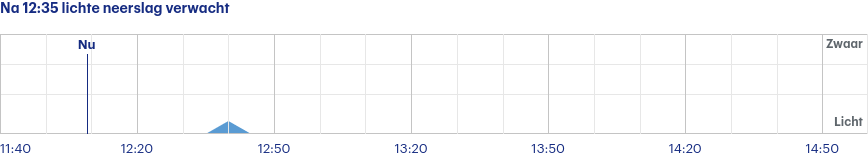
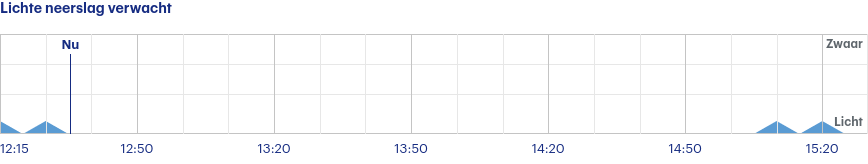
Latest scraping buienradar: Fri Jul 14 10:31:16 UTC 2023

diff --git a/scrapes/buienradar/buienradar-jette-3-uur.md b/scrapes/buienradar/buienradar-jette-3-uur.md
@@ -1,4 +1,4 @@
-Na 12:35 lichte neerslag verwacht
+Lichte neerslag verwacht
 
 ![](buienradar-jette-3-uur.png)
 
